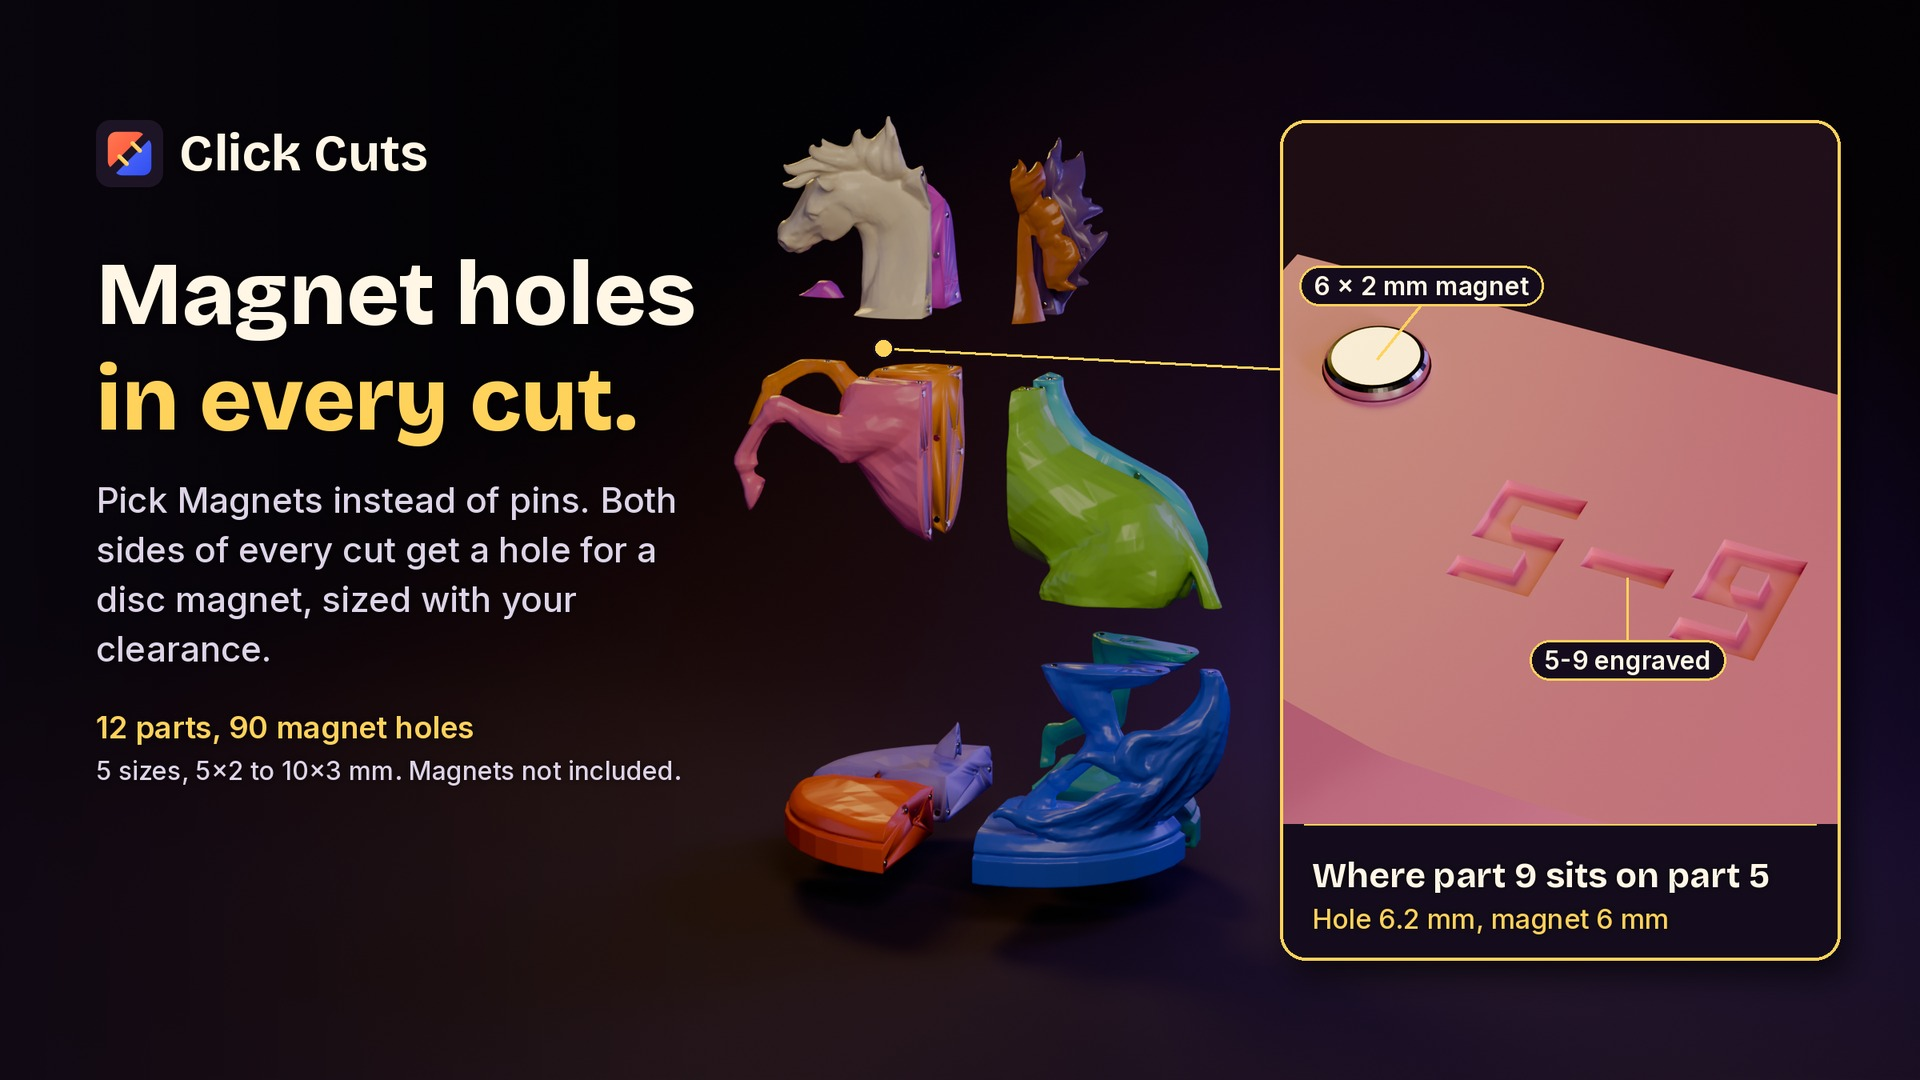
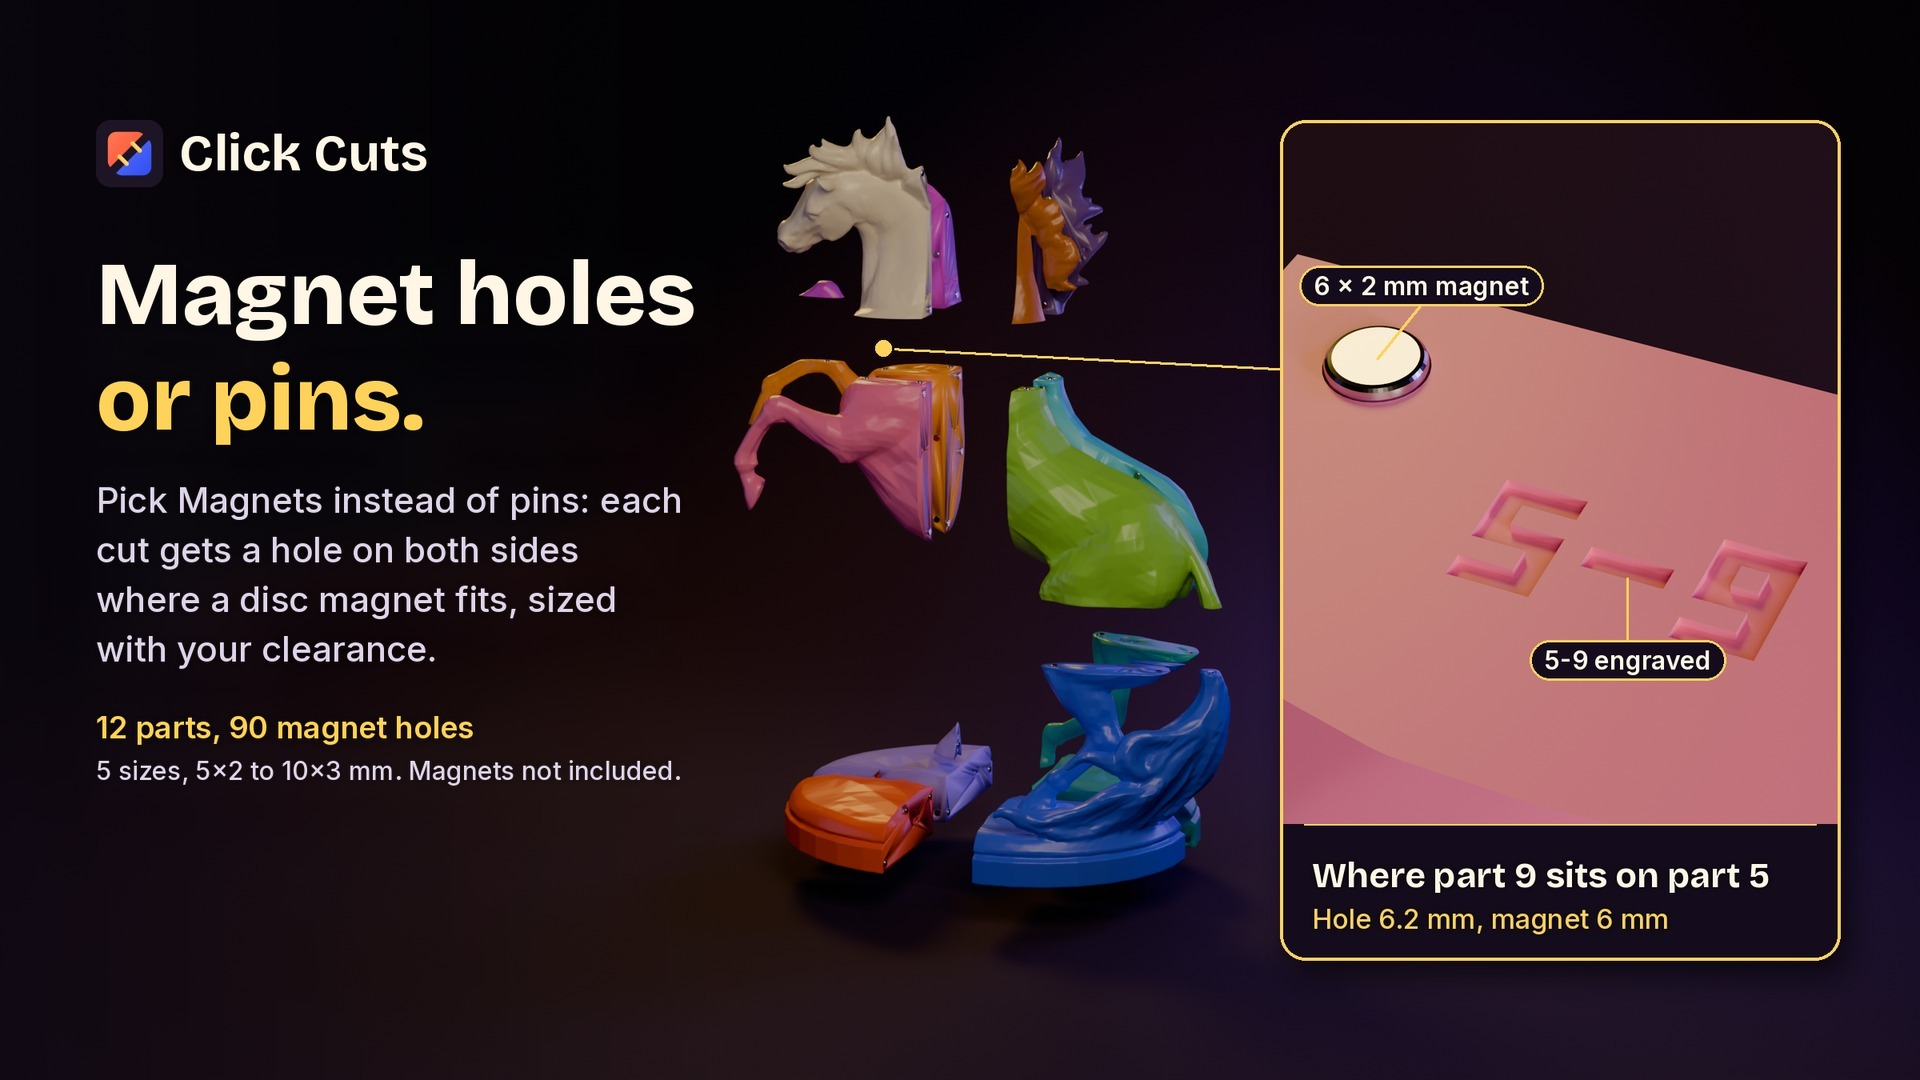
Beeldmaker #200: magneetbeeld Click Cuts zegt 'where a disc magnet fits' in plaats van 'every cut', blinde test r2
Claude-Session: https://claude.ai/code/session_01RMWUykLhWKfyRWHrEnoHFa

Changed region(s): [[0.0312, 0.4583, 0.375, 0.6111], [0.0312, 0.3361, 0.3438, 0.4278]]

diff --git a/ontwerp/cuts-galerij/bron/tekst_magneet_m1.py b/ontwerp/cuts-galerij/bron/tekst_magneet_m1.py
@@ -1,0 +1,108 @@
+"""Magneetbeeld zegt wat de add-on doet (Beeldmaker, 26 nov 2026, issue #200).
+
+python3 tekst_magneet_m1.py <beeldenmap> <fontmap> [magneet-paard.json]
+
+Het beeld beloofde "Magnet holes in every cut" en "Both sides of every cut get a hole". De add-on slaat een gat
+over waar de magneet niet past ("glue this joint"); de gekeurde winkeltekst zegt "each cut where it fits"
+(Daan M1 #189). Titel wordt "Magnet holes / or pins.", de zin noemt "where a disc magnet fits".
+De renders zijn niet bewaard, dus dit script haalt het hele linker tekstblok (titel, zin, getallen) uit de
+bestaande jpg's (inpainten op het egale donkere verloop) en zet de nieuwe tekst erin met dezelfde letters, maten
+en plek als tekst_magneet.py (die heeft nu ook de nieuwe tekst, voor een volgende render). Merk, paard en kaart
+blijven pixel voor pixel gelijk. Zelfde aanpak als tekst_nummer_paard_m1.py (M1 #129).
+"""
+import json
+import os
+import sys
+
+import cv2
+import numpy as np
+from PIL import Image, ImageDraw, ImageFilter, ImageFont
+
+MAP, FONTS = sys.argv[1:3]
+META = sys.argv[3] if len(sys.argv) > 3 else os.path.join(MAP, "magneet-paard.json")
+CREME, GOUD, ZACHT = (255, 246, 230), (255, 210, 92), (222, 212, 232)
+W, H, X = 2400, 1350, 120
+
+OUD_TITEL = (("Magnet holes", CREME), ("in every cut.", GOUD))
+OUD_ZIN = "Pick Magnets instead of pins. Both sides of every cut get a hole for a disc magnet, sized with your clearance."
+NW_TITEL = (("Magnet holes", CREME), ("or pins.", GOUD))
+NW_ZIN = "Pick Magnets instead of pins: each cut gets a hole on both sides where a disc magnet fits, sized with your clearance."
+
+
+def font(naam, maat, gewicht):
+    f = ImageFont.truetype(os.path.join(FONTS, naam), maat)
+    try:
+        f.set_variation_by_name(gewicht)
+    except Exception:  # noqa: BLE001
+        pass
+    return f
+
+
+def regels(tekst, f, breed):
+    uit, nu = [], ""
+    for w in tekst.split(" "):
+        t = (nu + " " + w).strip()
+        if f.getlength(t) > breed and nu:
+            uit.append(nu)
+            nu = w
+        else:
+            nu = t
+    return uit + [nu]
+
+
+def lagen(titel, zin, m):
+    """Schaduw- en tekstlaag op 2400x1350, zoals main() en schaduwtekst() in tekst_magneet.py."""
+    ft = font("Bricolage.ttf", 112, "ExtraBold")
+    fz = font("Inter.ttf", 44, "Medium")
+    regs = []
+    y = 300
+    for r, kl in titel:
+        regs.append((r, y, ft, kl, 10))
+        y += 132
+    y += 34
+    for r in regels(zin, fz, 740):
+        regs.append((r, y, fz, ZACHT, 6))
+        y += 62
+    y += 40
+    regs.append((f"{m['stukken']} parts, {m['pennen']} magnet holes", y, font("Inter.ttf", 38, "SemiBold"), GOUD, 6))
+    regs.append(("5 sizes, 5x2 to 10x3 mm. Magnets not included.", y + 58, font("Inter.ttf", 32, "Medium"), ZACHT, 5))
+    schaduw = Image.new("RGBA", (W, H), (0, 0, 0, 0))
+    tekst = Image.new("RGBA", (W, H), (0, 0, 0, 0))
+    for r, yy, f, kl, s in regs:
+        laag = Image.new("RGBA", (W, H), (0, 0, 0, 0))
+        ImageDraw.Draw(laag).text((X, yy), r, font=f, fill=(0, 0, 0, 170))
+        schaduw.alpha_composite(laag.filter(ImageFilter.GaussianBlur(s)))
+        ImageDraw.Draw(tekst).text((X, yy), r, font=f, fill=kl)
+    return schaduw, tekst
+
+
+def naar_doel(laag, maat):
+    if maat == (2400, 1200):
+        return laag.crop((0, 75, W, 75 + 1200))
+    return laag.resize(maat, Image.LANCZOS)
+
+
+def main():
+    m = json.load(open(META))
+    _, oud_t = lagen(OUD_TITEL, OUD_ZIN, m)
+    nw_s, nw_t = lagen(NW_TITEL, NW_ZIN, m)
+    for naam in ("magneet-2400x1200.jpg", "magneet-1920x1080.jpg"):
+        p = os.path.join(MAP, naam)
+        img = Image.open(p).convert("RGB")
+        maat = img.size
+        a_oud = np.array(naar_doel(oud_t, maat).split()[3])
+        straal = int(30 * maat[0] / W)
+        masker = cv2.dilate((a_oud > 8).astype(np.uint8) * 255, np.ones((2 * straal + 1,) * 2, np.uint8))
+        bgr = cv2.cvtColor(np.array(img), cv2.COLOR_RGB2BGR)
+        schoon = cv2.inpaint(bgr, masker, 25, cv2.INPAINT_TELEA)
+        vaag = cv2.GaussianBlur(schoon, (0, 0), 18)
+        zacht = cv2.GaussianBlur(masker.astype(np.float32) / 255, (0, 0), 8)[..., None]
+        schoon = (schoon * (1 - zacht) + vaag * zacht).astype(np.uint8)
+        uit = Image.fromarray(cv2.cvtColor(schoon, cv2.COLOR_BGR2RGB)).convert("RGBA")
+        uit.alpha_composite(naar_doel(nw_s, maat))
+        uit.alpha_composite(naar_doel(nw_t, maat))
+        uit.convert("RGB").save(p, quality=92)
+        print("klaar", p)
+
+
+main()

diff --git a/ontwerp/cuts-galerij/bron/tekst_magneet.py b/ontwerp/cuts-galerij/bron/tekst_magneet.py
@@ -1,4 +1,4 @@
-"""Tekst op galerijbeeld Click Cuts "Magnet holes in every cut" (Beeldmaker, 26 nov 2026, issue #137).
+"""Tekst op galerijbeeld Click Cuts "Magnet holes or pins" (Beeldmaker, 26 nov 2026, issue #137; tekst #200).
 
 python3 tekst_magneet.py <render-paard.png> <paard.json> <render-macro.png> <macro.json> <uitmap> <fontmap> <icoon.svg>
 
@@ -72,11 +72,11 @@ def main():
     img.alpha_composite(icoon(84), (x, 150))
     schaduwtekst(img, (x + 104, 192), "Click Cuts", font("Bricolage.ttf", 64, "Bold"), CREME, anchor="lm")
     y = 300
-    for regel, kl in (("Magnet holes", CREME), ("in every cut.", GOUD)):
+    for regel, kl in (("Magnet holes", CREME), ("or pins.", GOUD)):
         schaduwtekst(img, (x, y), regel, font("Bricolage.ttf", 112, "ExtraBold"), kl)
         y += 132
     y += 34
-    zin = "Pick Magnets instead of pins. Both sides of every cut get a hole for a disc magnet, sized with your clearance."
+    zin = "Pick Magnets instead of pins: each cut gets a hole on both sides where a disc magnet fits, sized with your clearance."
     fz = font("Inter.ttf", 44, "Medium")
     for r in regels(zin, fz, 740):
         schaduwtekst(img, (x, y), r, fz, ZACHT, schaduw=6)

diff --git a/ontwerp/cuts-galerij/LEESMIJ.md b/ontwerp/cuts-galerij/LEESMIJ.md
@@ -73,3 +73,9 @@ HB_VERBINDER=MAGNET HB_MAGNEET=6x2 SV_STUK=5 SV_BUUR=9 SV_LEEG=0 SV_MAG_UIT=0.8 
 KT_X=1600 KT_B=700 MG_CX=0.39 python3 bron/tekst_magneet.py render-paard.png magneet-paard.json render-macro.png magneet-macro.json beelden <fonts> ../../producten/blender-splitser/merk/icoon.svg
 ```
 Blinde test: set `organisatie/blindtest/sets/click-cuts-galerij-magneet.json`, zelfde concurrenten als "Numbered for assembly".
+
+**Tekst gelijk aan de add-on (#200), 26 nov ±16:50:** het beeld zei "Magnet holes in every cut" en "Both sides of every cut get a hole". De add-on slaat een gat over waar de magneet niet past ("glue this joint"), en de gekeurde winkeltekst zegt "each cut where it fits" (Daan M1 #189; melding Productbouwer 26 nov 09:25). Nu: titel "Magnet holes / or pins.", zin "Pick Magnets instead of pins: each cut gets a hole on both sides where a disc magnet fits, sized with your clearance." `bron/tekst_magneet_m1.py` haalde het linker tekstblok uit beide jpg's (inpainten op het donkere verloop) en zette de nieuwe tekst erin, zelfde letters, maten en plek; merk, paard en kaart ongewijzigd. `bron/tekst_magneet.py` heeft de nieuwe tekst voor een volgende render.
+```
+python3 bron/tekst_magneet_m1.py beelden <fonts>
+```
+Blinde test: set `organisatie/blindtest/sets/click-cuts-galerij-magneet-r2.json`.
